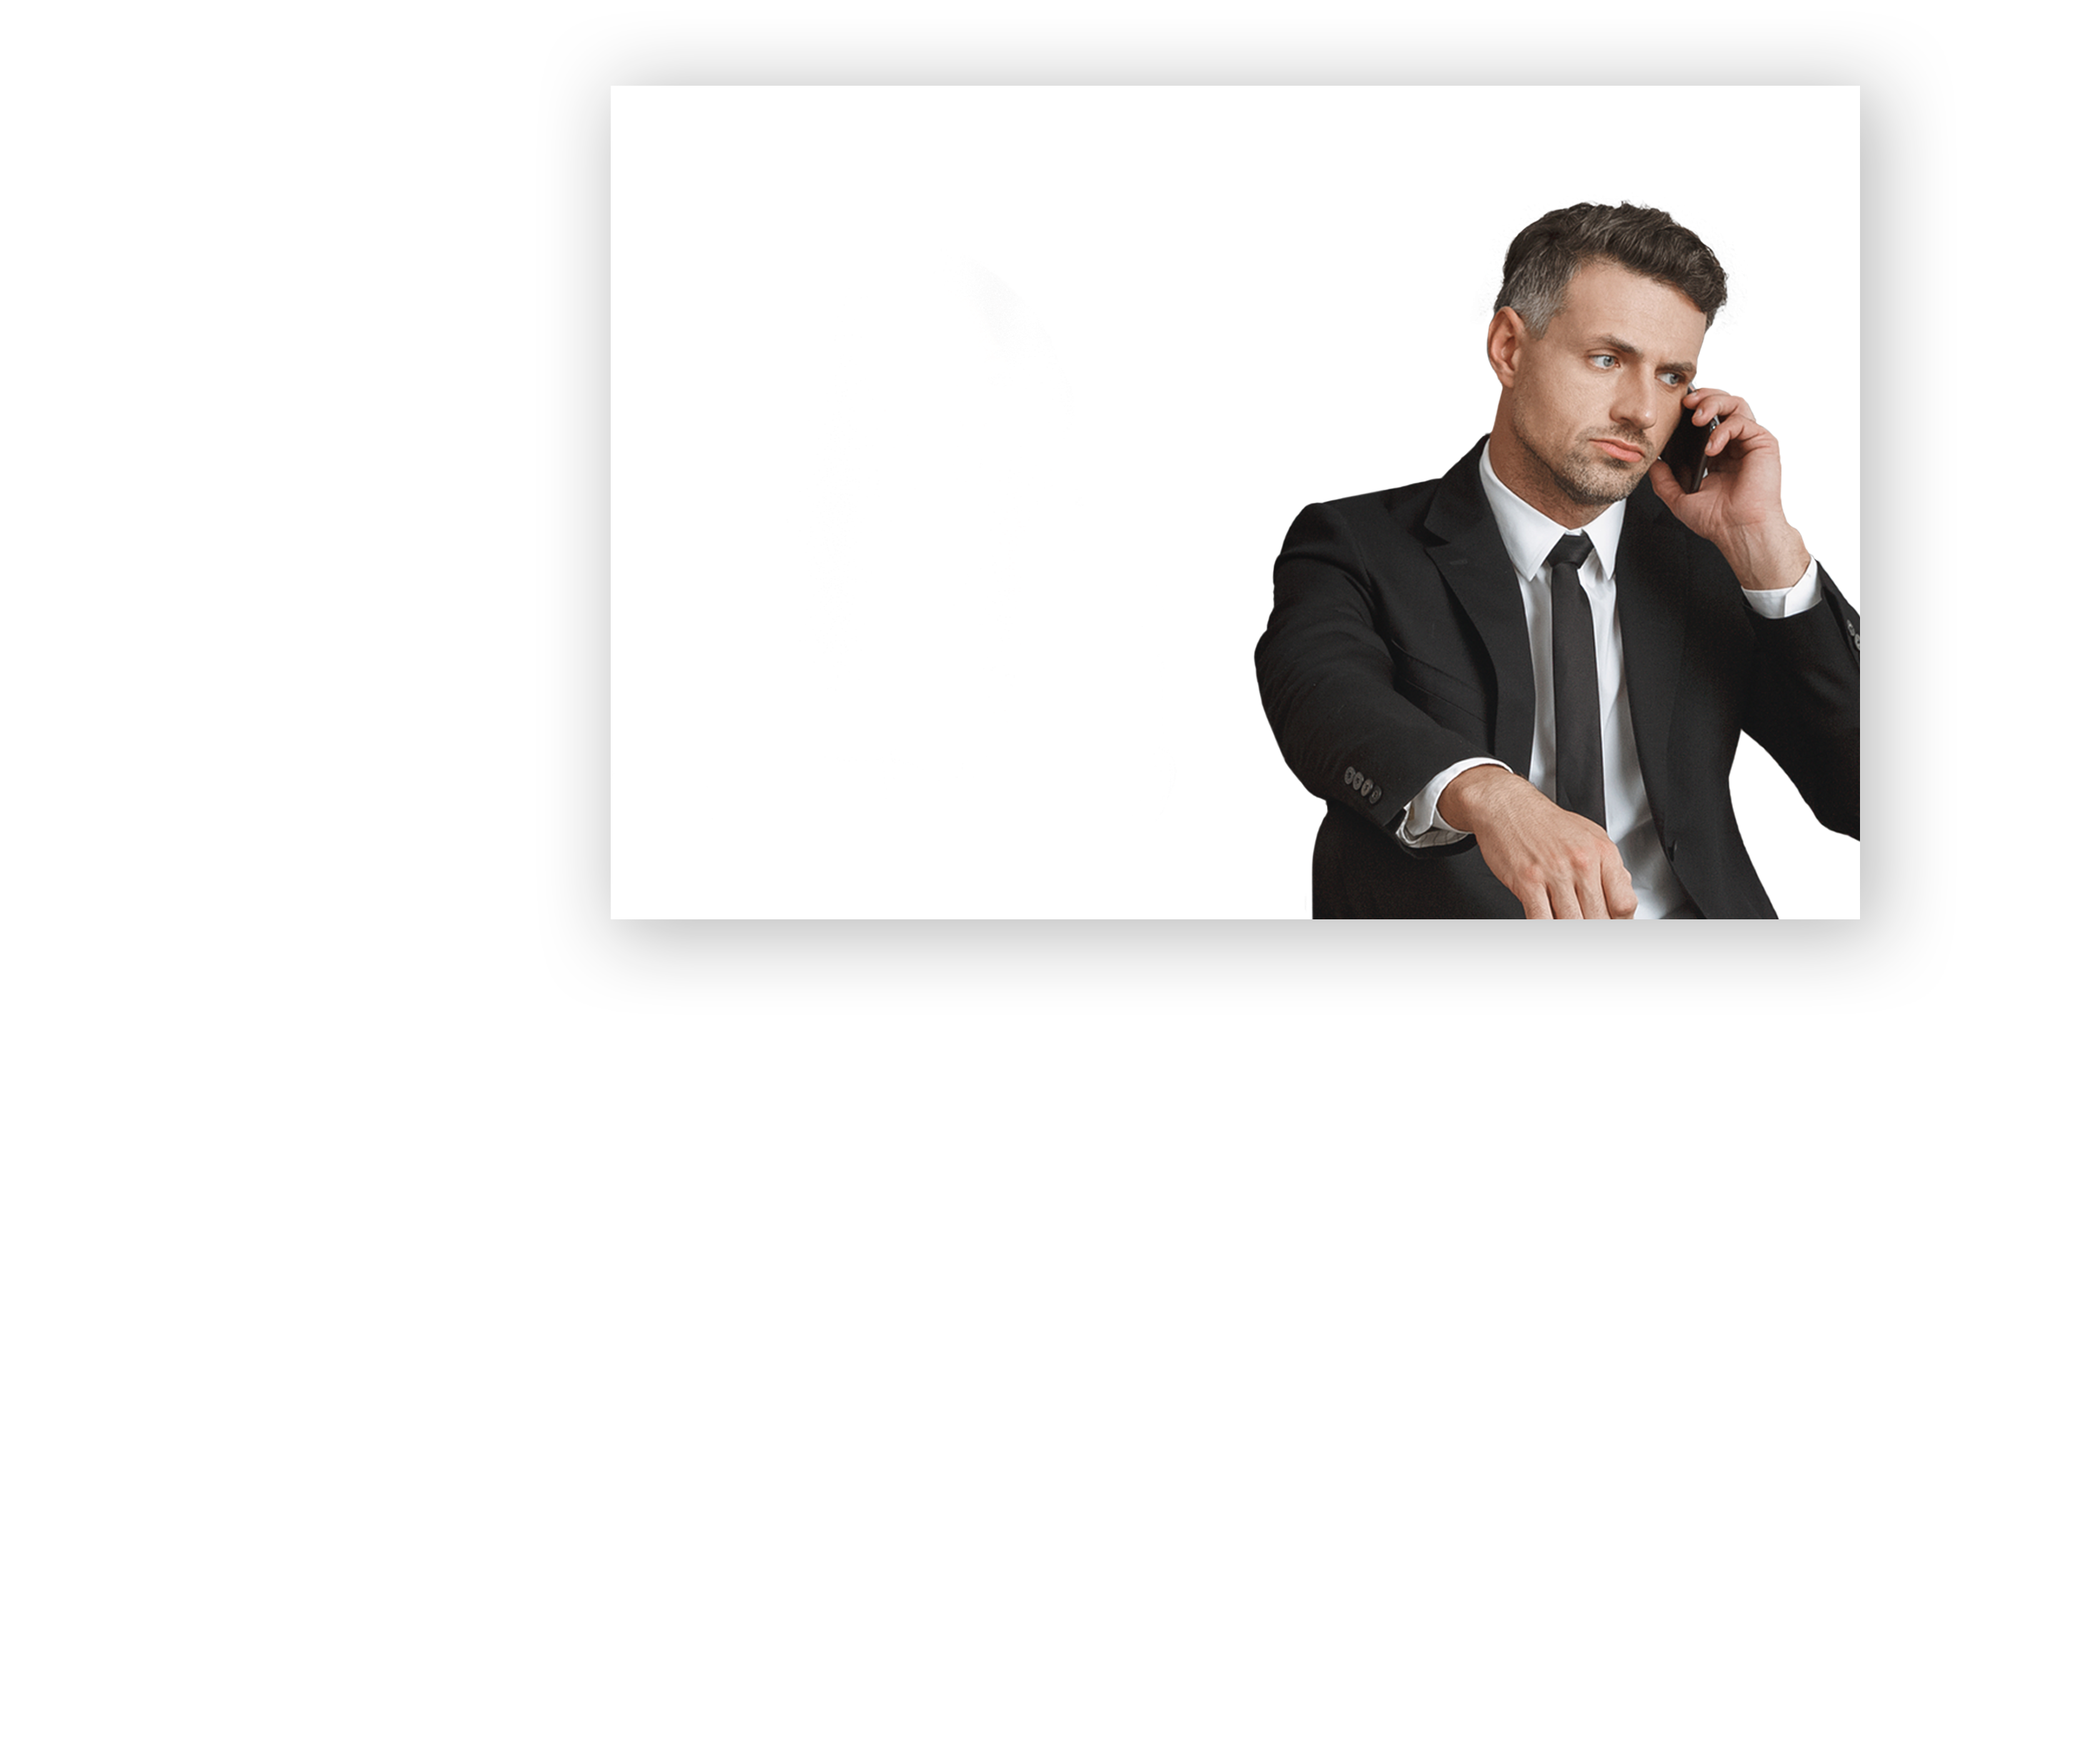
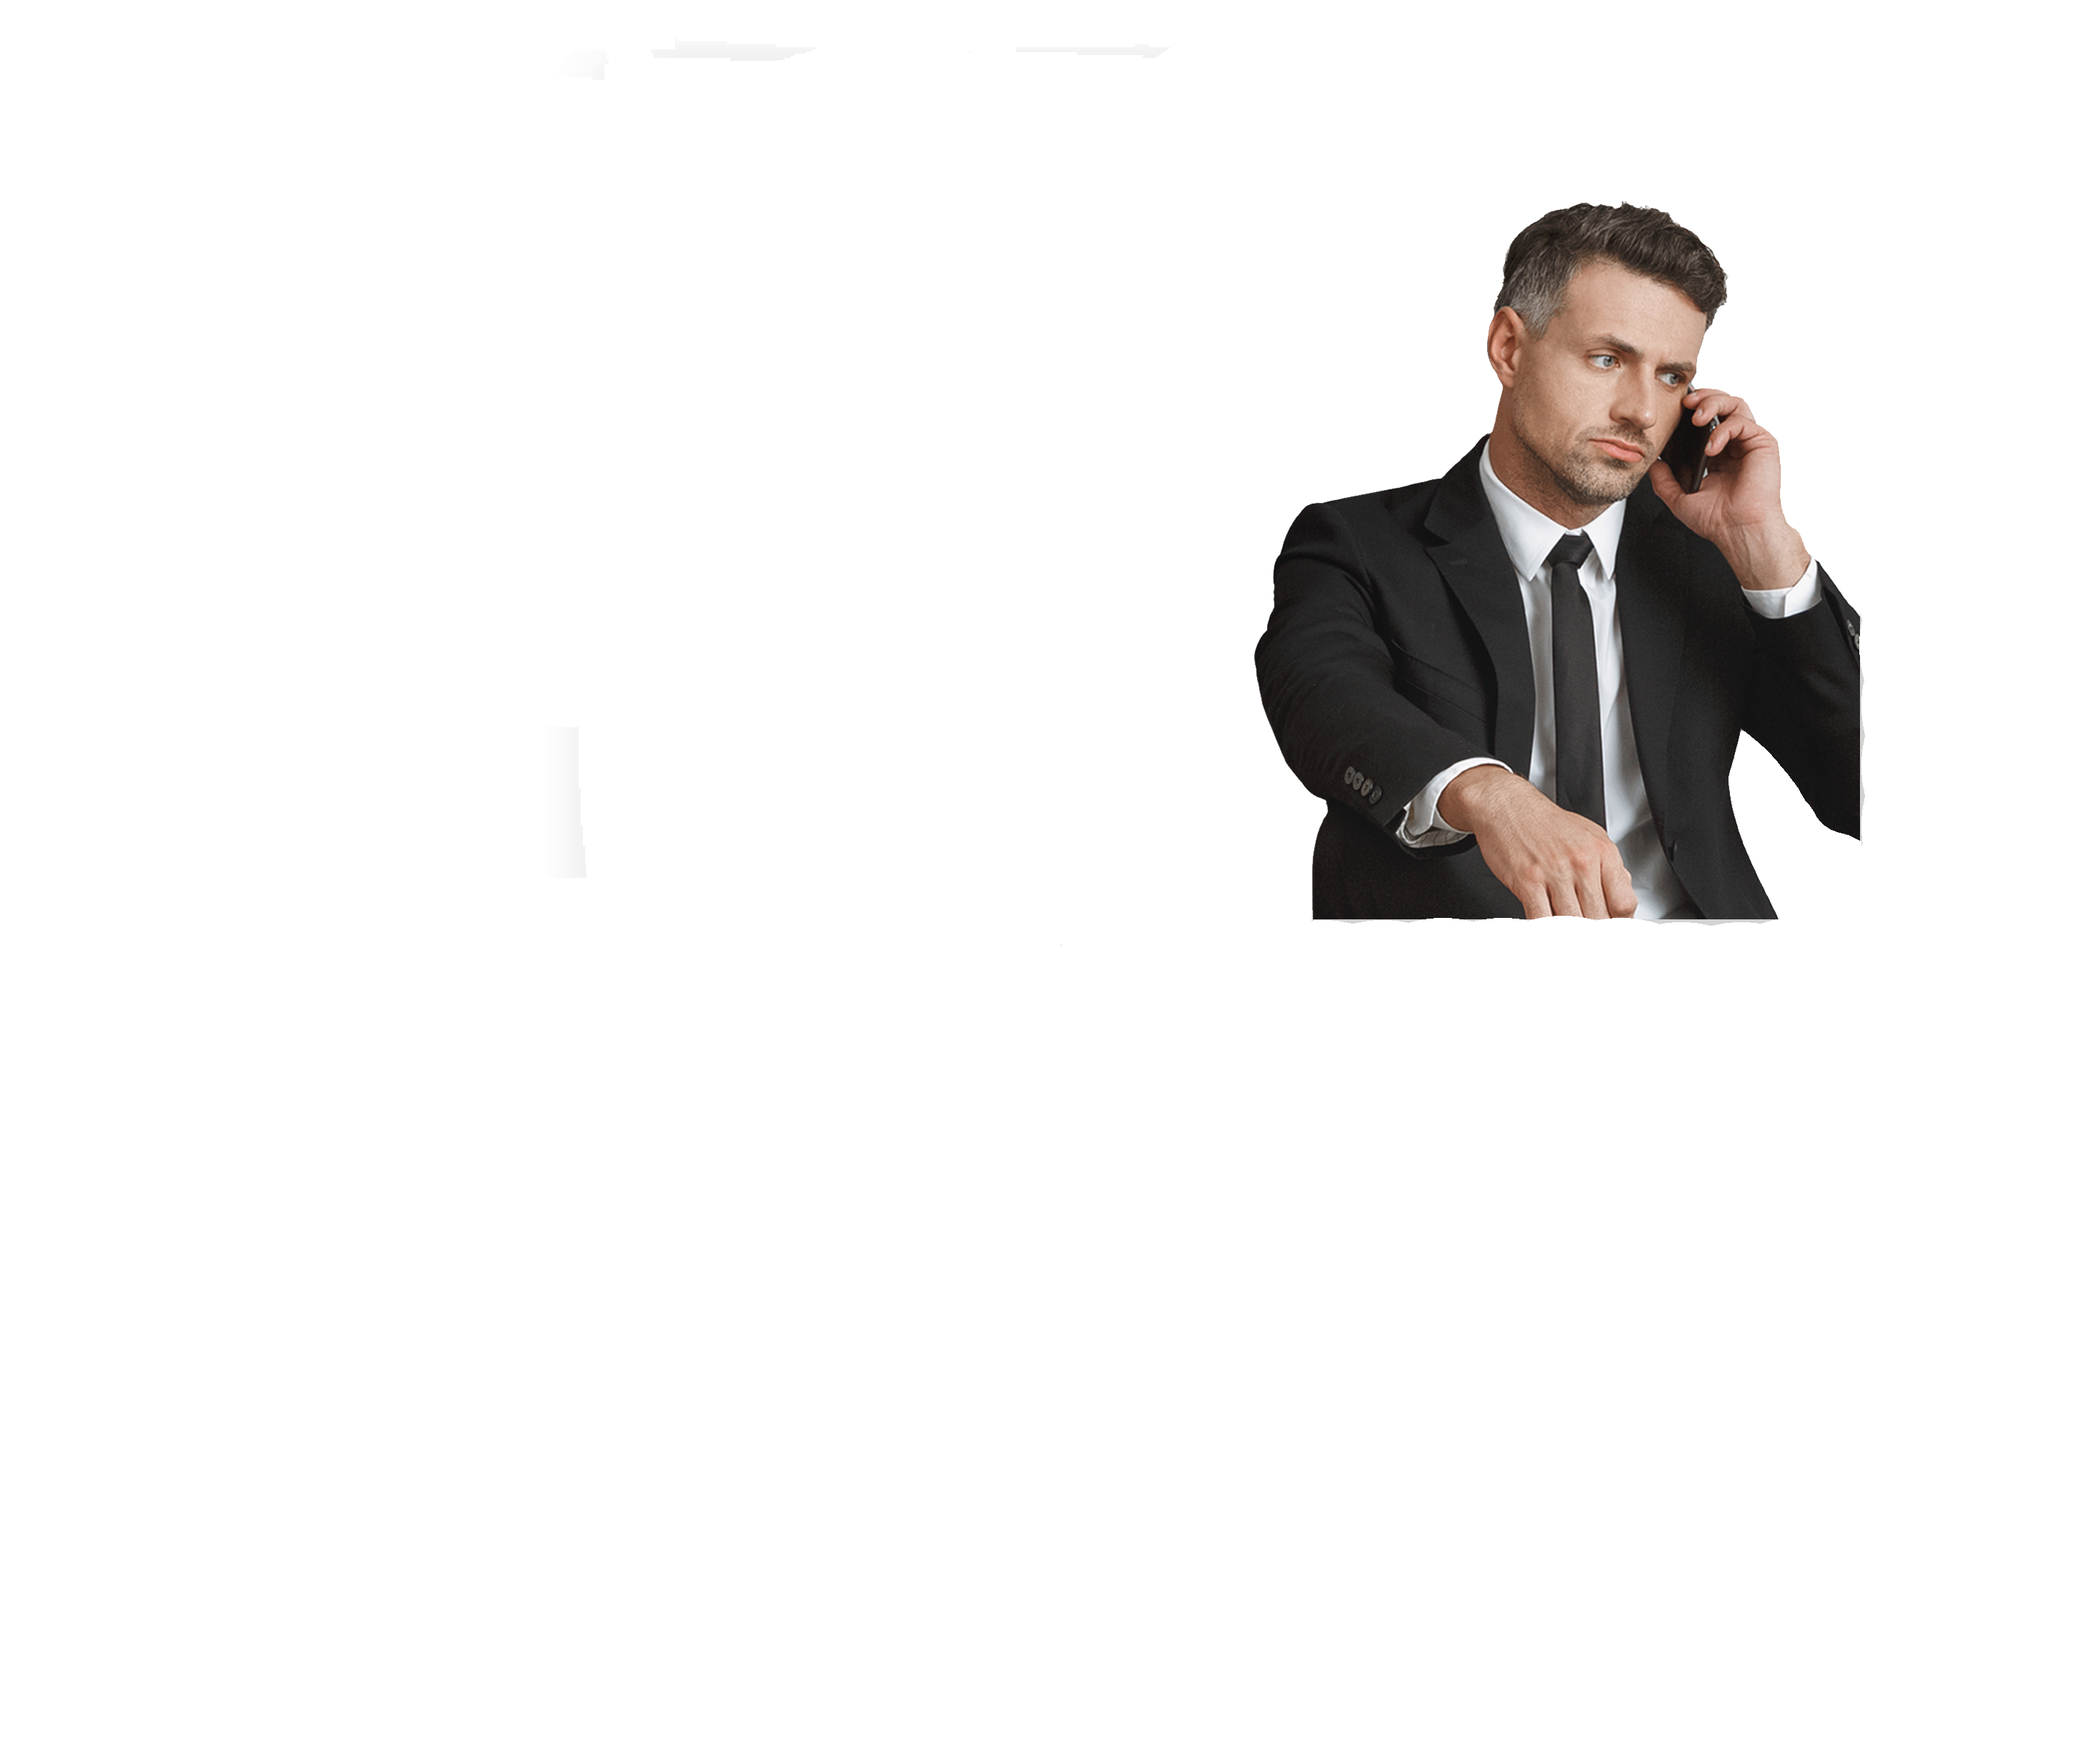
комит

Changed region(s): [[0.2806, 0.0311, 0.9353, 0.5591], [0.2806, 0.0932, 0.3118, 0.4969]]

diff --git a/app/styles/gameFindTheNumber.css b/app/styles/gameFindTheNumber.css
@@ -32,30 +32,57 @@ article.slide .approve-text.approve-number {
 }
 article.slide .slide-title {
   position: absolute;
-  display: block;
-  left: 50px;
-  top: 149px;
-  font-size: 33px;
-  line-height: 40px;
-  color: #009CDE;
-  text-transform: uppercase;
-  font-weight: 900;
-  letter-spacing: 0px;
+    display: block;
+    left: 50px;
+    top: 160px;
+    font-size: 29px;
+    line-height: 40px;
+    color: #009CDE;
+    text-transform: uppercase;
+    font-weight: 900;
+    letter-spacing: 0px;
 }
 .hidden-references {
   display: none;
 }
 .slide .product-logo-neuro {
   height: 46px;
-  top: 50px;
-  right: 55px;
+    top: 45px;
+    right: 46px;
+}
+
+.tr6 {
+  display: none;
+  position: absolute;
+  top: 318px;
+  left: 179px;
+  width: 134px;
+  height: 119px;
+}
+
+.tr3 {
+  display: none;
+  position: absolute;
+    top: 552px;
+    left: 396px;
+    width: 151px;
+    height: 114px;
+}
+
+.tr23 {
+  display: none;
+  position: absolute;
+  top: 529px;
+  left: 55px;
+  width: 125px;
+  height: 100px;
 }
 
 co-ab-ru-logo-menu .logoButton[co-ab-ru-logo-menu] {
   position: absolute;
   transform: none;
   top: 49px;
-  left: 54px;
+  left: 49px;
   height: 34px;
 }
 
@@ -84,4 +111,81 @@ co-ab-ru-logo-menu .logoButton[co-ab-ru-logo-menu] {
   left: 0;
   top: 0;
   z-index: -1;
+}
+
+.bg {
+  position: absolute;
+  display: block;
+  width: 773px;
+  height: 726px;
+  left: -76px;
+  bottom: -146px;
+  z-index: -1;
+}
+
+.help {
+  position: absolute;
+  font-size: 21px;
+  top: 236px;
+  left: 92px;
+  width: 230px;
+  line-height: 23px;
+}
+
+.fing {
+  position: absolute;
+    display: block;
+    width: 54px;
+    height: 58px;
+    left: 37px;
+    top: 224px;
+    z-index: -1;
+}
+
+.numbCo {
+  position: absolute;
+    top: 202px;
+    display: flex;
+    gap: 14px;
+    left: 350px;
+}
+
+.number {
+  width: 64px;
+  height: 100px;
+}
+
+.numbCoActive {
+  position: absolute;
+    top: 202px;
+    display: flex;
+    gap: 14px;
+    left: 350px;
+    display: none;
+}
+
+.show {
+  position: absolute;
+    bottom: -74px;
+    display: flex;
+    gap: 14px;
+    width: 241px;
+    right: 171px;
+}
+
+.back {
+  position: absolute;
+  bottom: 7px;
+  gap: 14px;
+  width: 241px;
+  right: 171px;
+  display: none;
+}
+
+.active {
+  display: block;
+}
+
+.activeflex {
+  display: flex;
 }

diff --git a/app/gameFindTheNumber.html b/app/gameFindTheNumber.html
@@ -18,7 +18,7 @@
 <body>
 <article class="slide">
 
-  <!--<co-image class="slide-bg" model="m.slideBg"></co-image>-->
+ <!-- <co-image class="slide-bg" model="m.slideBg"></co-image>-->
   <!-- /layout -->
   <rv-template name="layout"></rv-template>
   <!-- /layout -->
@@ -29,7 +29,24 @@
 
 
   <co-container class="main">
-
+    <co-image class="bg" model="m.bg"></co-image>
+    <co-image class="fing" model="m.fing"></co-image>
+    <co-text class="help" model="m.help"></co-text>
+    <co-container class="numbCo">
+      <co-image class="number 6" model="m.6"></co-image>
+      <co-image class="number 3" model="m.3"></co-image>
+      <co-image class="number 23" model="m.23"></co-image>
+    </co-container>
+    <co-container class="numbCoActive">
+      <co-image class="number a6" model="m.A6"></co-image>
+      <co-image class="number a3" model="m.A3"></co-image>
+      <co-image class="number a23" model="m.A23"></co-image>
+    </co-container>
+    <co-image class="tr3" model="m.3tr"></co-image>
+    <co-image class="tr6" model="m.6tr"></co-image>
+    <co-image class="tr23" model="m.23tr"></co-image>
+    <co-image class="show" model="m.show"></co-image>
+    <co-image class="back" model="m.back"></co-image>
   </co-container>
 
   <co-text class="hidden-references" model="m.hiddenReferences"></co-text>
@@ -37,5 +54,28 @@
 
 <script src="../spa/bundle.js"></script>
 <script src="scripts/index.js"></script>
+<script>
+  const show = document.querySelector('.show')
+  const numbers = document.querySelector('.numbCoActive')
+  const a6 = document.querySelector('.a6')
+  const a3 = document.querySelector('.a3')
+  const a23 = document.querySelector('.a23')
+  const tr6 = document.querySelector('.tr6')
+  const tr3 = document.querySelector('.tr3')
+  const tr23 = document.querySelector('.tr23')
+  const back = document.querySelector('.back')
+  console.log(a6)
+  show.addEventListener('click', () => {
+    numbers.classList.add("activeflex")
+    a6.classList.add("active")
+    a3.classList.add("active")
+    a23.classList.add("active")
+    tr6.classList.add("active")
+    tr3.classList.add("active")
+    tr23.classList.add("active")
+    back.classList.add("active")
+  }
+  );
+  </script>
 </body>
 </html>

diff --git a/app/home.html b/app/home.html
@@ -282,7 +282,7 @@
         </co-container>
       </co-popup>
       <co-popup id="popup4" class="popup popup-2">
-        <co-image class="co-popup-img" model="m.popup4-img"></co-image>
+        <co-image class="co-popup-img img4" model="m.popup4-img"></co-image>
         <co-text class="co-popup-title" model="m.popup4-title"></co-text>
         <co-container class="popupTextContainer">
           <co-container class="co-popup-list">
@@ -410,7 +410,7 @@
         </co-container>
       </co-popup>
       <co-popup id="popup6" class="popup popup-6">
-        <co-image class="co-popup-img" model="m.popup6-img"></co-image>
+        <co-image class="co-popup-img img6" model="m.popup6-img"></co-image>
         <co-text class="co-popup-title" model="m.popup6-title"></co-text>
         <co-container class="popupTextContainer">
           <co-container class="co-popup-list">

diff --git a/app/styles/home.css b/app/styles/home.css
@@ -219,3 +219,20 @@ co-popup#popup1 .close-button[co-popup] {
   top: 11.5px;
   left: 1.5px;
 }
+
+
+.img4 {
+  position: absolute;
+    top: 56px;
+    right: -406px;
+    width: 1279px;
+    height: 1067px;
+}
+
+.img6 {
+  position: absolute;
+    top: -109px;
+    right: -127px;
+    width: 1300px;
+    height: 1300px;
+}
